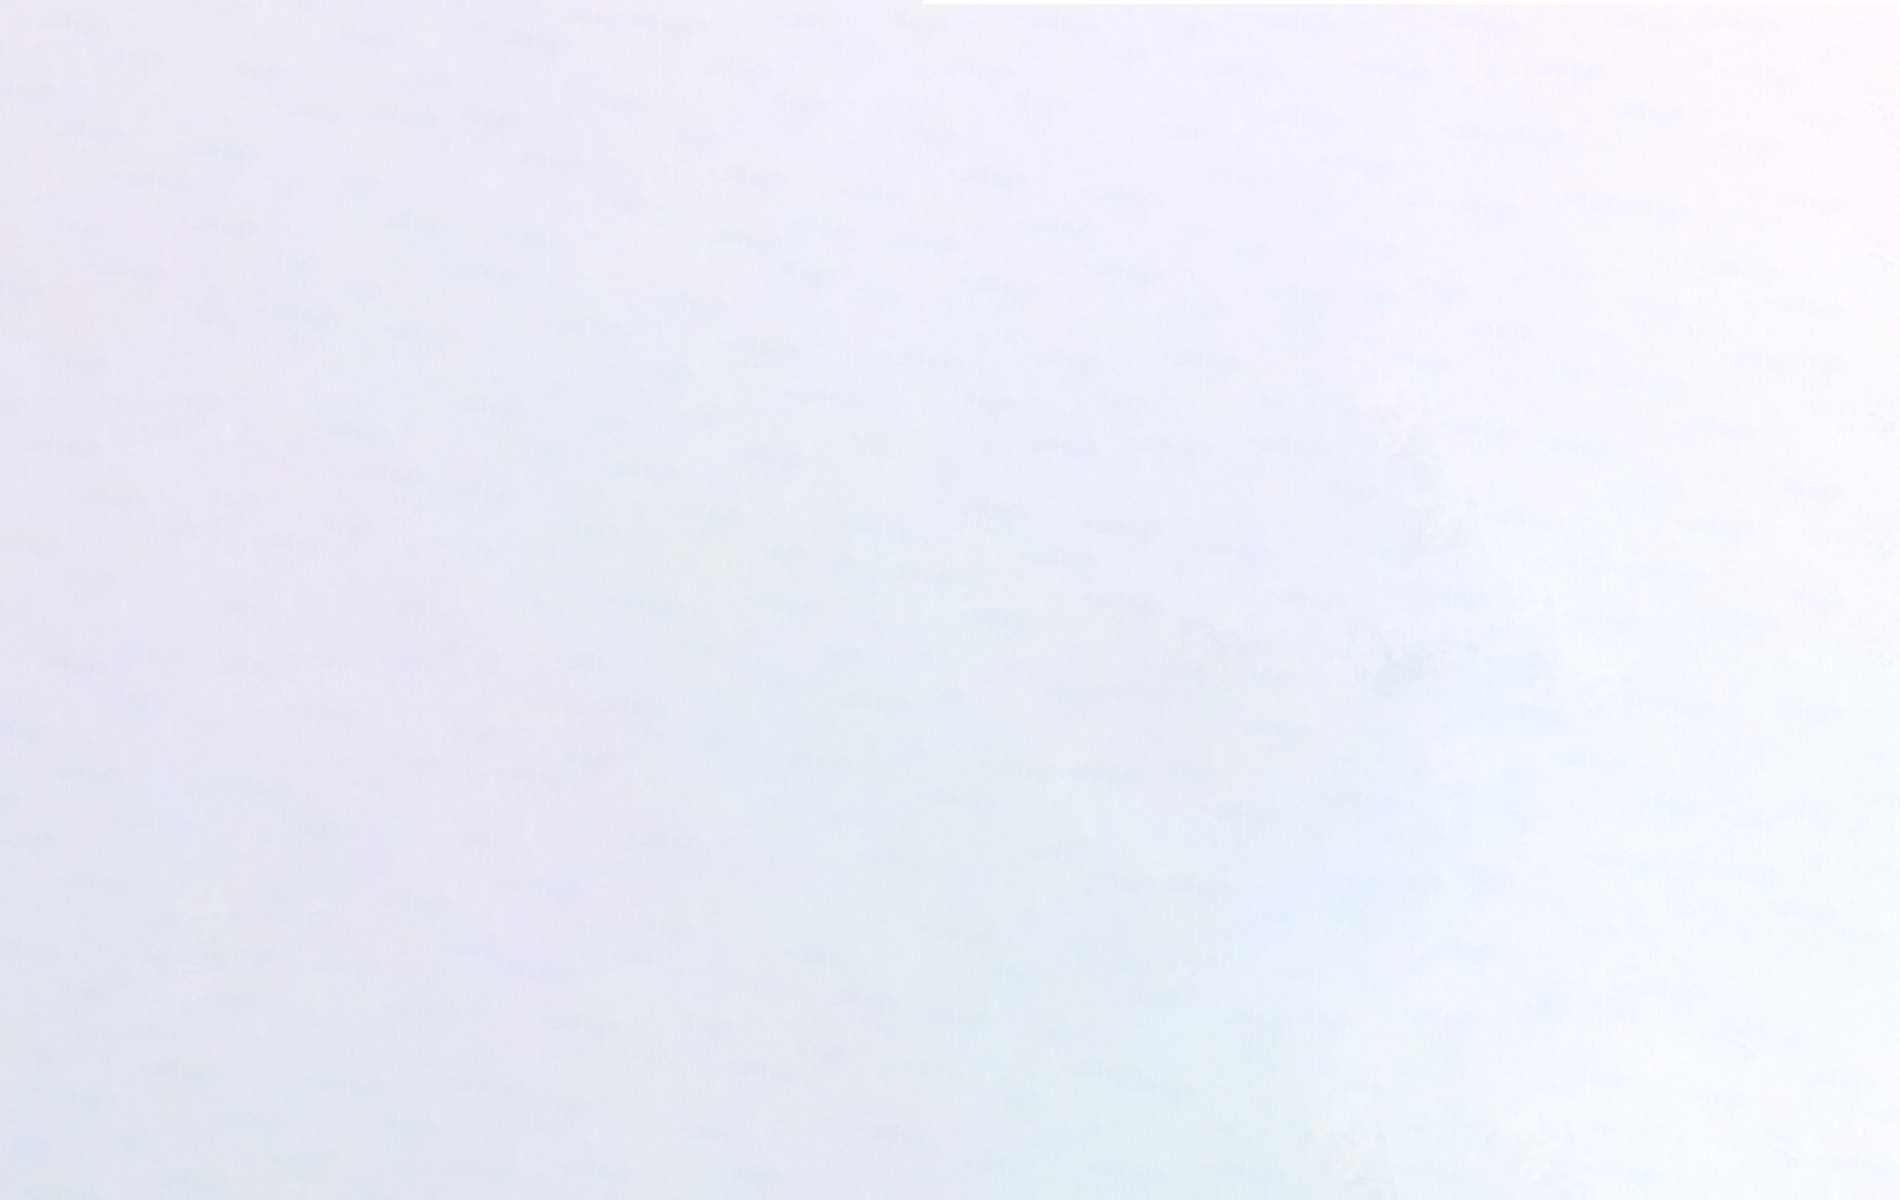
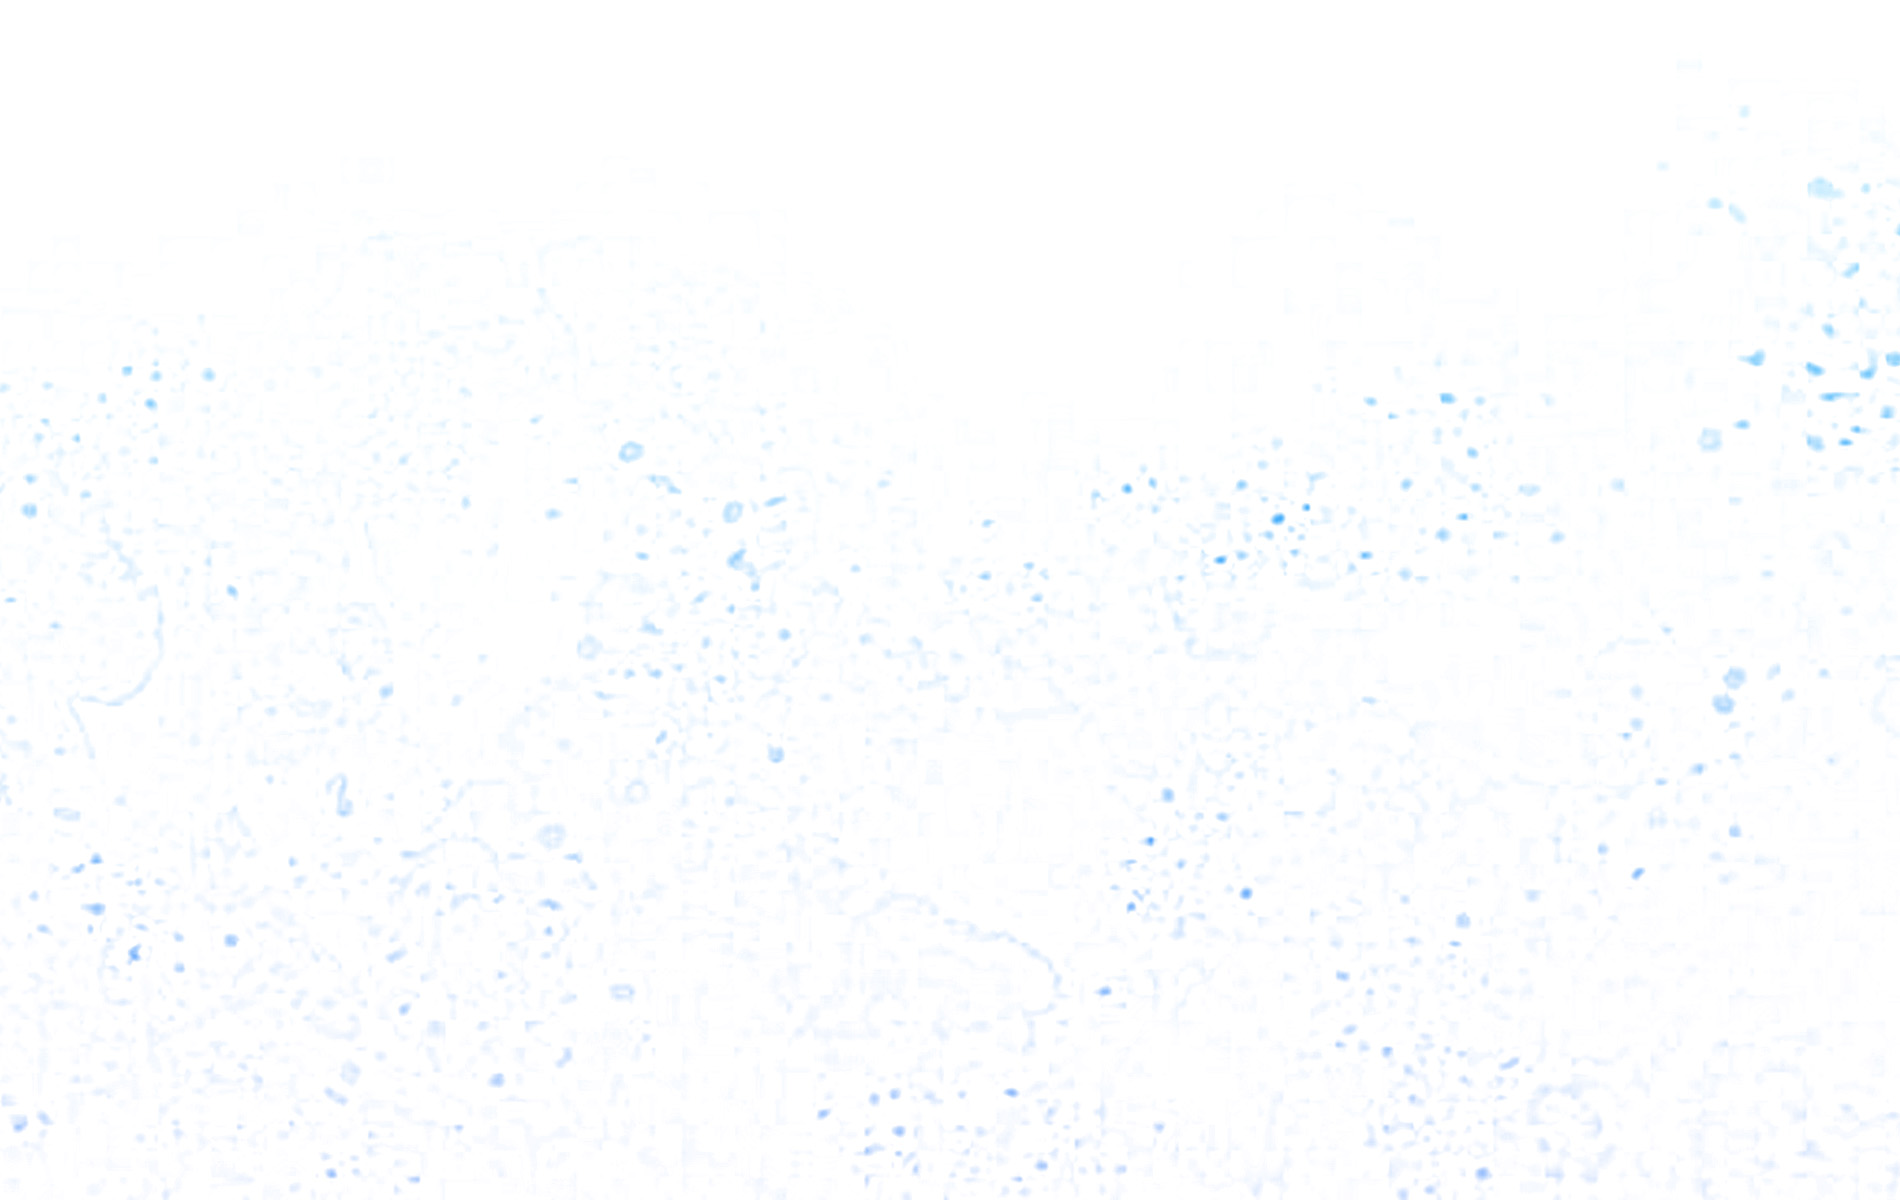
Update BG Image

diff --git a/public/styles/light-new.css b/public/styles/light-new.css
@@ -931,7 +931,7 @@ body {
   color: var(--main, #080e25);
   text-rendering: optimizeLegibility;
   /*--body-bg: #f8f8f8 url("https://knuckleheads.netlify.app/images/backgrounds/Hangover.png"), url("https://knuckleheads.netlify.app/images/backgrounds/BG-FB-Field-Light.jpg");*/
-  background-image: url("https://knuckleheads.netlify.app/images/backgrounds/Side-Doodles.png"), url("https://knuckleheads.netlify.app/images/backgrounds/BG-Light-Texture.jpg");
+  background-image: url("https://knuckleheads.netlify.app/images/backgrounds/Side-Players-WC.png"), url("https://knuckleheads.netlify.app/images/backgrounds/BG-Watercolor.jpg");
   background-attachment: fixed;
   background-position: center top;
   background-repeat: no-repeat no-repeat;
